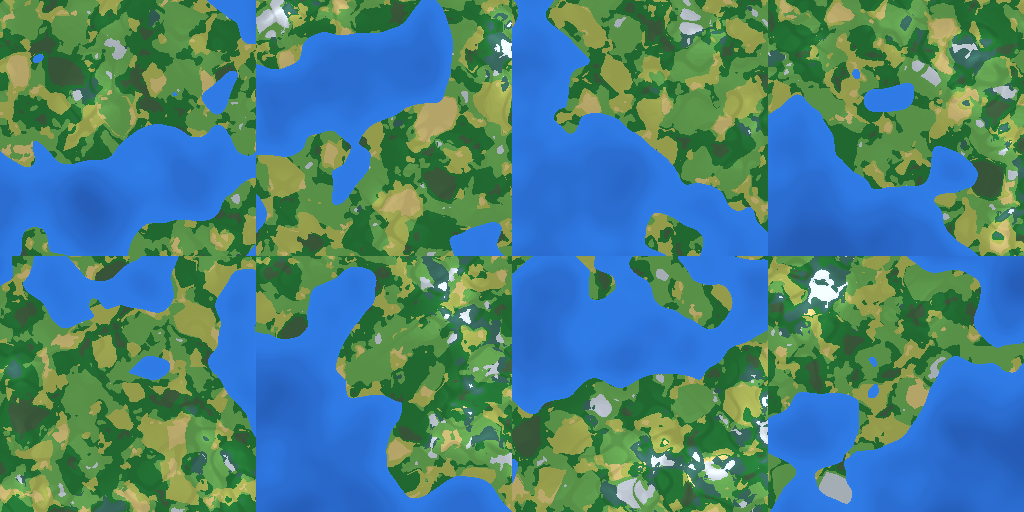
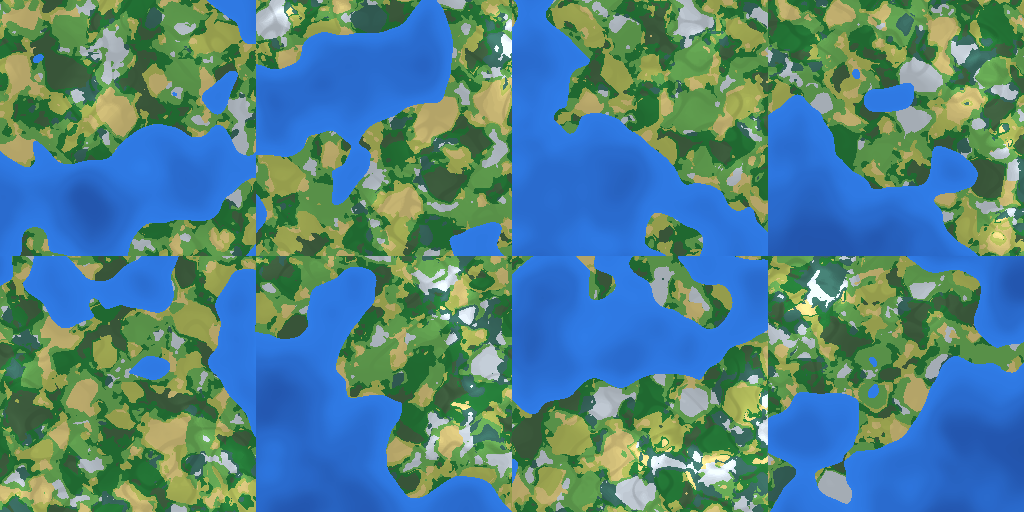
v0.25.0: tuning del clima (mas contraste) y de la costa (playas mas estrechas)

diff --git a/src/world/worldgen/mod.rs b/src/world/worldgen/mod.rs
@@ -182,15 +182,18 @@ fn derive(seed: u32, salt: u32) -> u32 {
 /// suave y controlable desde un solo sitio.
 fn continental_base(c: f32) -> f32 {
     // Cruza el 0 en `c = ocean_threshold` (0.0): ahi esta la linea de costa.
+    // Perfil `continentalness -> altura relativa al mar`. El tramo cerca de 0 se
+    // hace **empinado** para que la playa/plataforma sea estrecha (antes el
+    // gradiente suave dejaba costas muy anchas y planas).
     let points: [(f32, f32); 9] = [
-        (-1.00, -64.0),
-        (-0.60, -40.0),
-        (-0.30, -22.0),
-        (-0.10, -8.0),
+        (-1.00, -72.0),
+        (-0.55, -46.0),
+        (-0.28, -24.0),
+        (-0.10, -9.0),
         (0.00, 0.0),
-        (0.12, 10.0),
-        (0.45, 42.0),
-        (0.75, 86.0),
+        (0.05, 8.0),
+        (0.20, 24.0),
+        (0.60, 70.0),
         (1.00, 140.0),
     ];
     math::spline(&points, c)
@@ -400,8 +403,11 @@ impl WorldGen {
         let h_cell = self.climate_field(&self.humidity, ccx, ccz, cfg.humidity_scale);
         // En el interior de la celda domina el centro; cerca del borde, lo local.
         let blend = math::smoothstep(0.15, 0.55, cell.edge);
-        let temperature = math::lerp(t_local, t_cell, blend);
-        let humidity = math::lerp(h_local, h_cell, blend);
+        // Contraste climatico: empuja el clima hacia los extremos (mas biomas
+        // frios/calidos y secos/humedos; antes todo caia cerca de 0.5).
+        let contrast = |v: f32| math::saturate(0.5 + (v - 0.5) * cfg.climate_contrast);
+        let temperature = contrast(math::lerp(t_local, t_cell, blend));
+        let humidity = contrast(math::lerp(h_local, h_cell, blend));
 
         // --- Landforms (FASE 4): mesetas/terrazas/acantilados ---
         self.bump();
@@ -619,6 +625,23 @@ mod tests {
             max = max.max(s.coast_roll);
         }
         assert!(max - min > 0.3, "coast_roll poco variado: {min}..{max}");
+    }
+
+    #[test]
+    fn el_clima_llega_a_los_extremos() {
+        // Con el contraste climatico debe haber regiones claramente frias y
+        // calidas (si no, los biomas frios/calidos serian raros).
+        let g = WorldGen::new(13_371);
+        let (mut tmin, mut tmax) = (1.0f32, 0.0f32);
+        for x in (-3000..3000).step_by(101) {
+            for z in (-3000..3000).step_by(103) {
+                let t = g.sample(x as f64, z as f64).temperature;
+                tmin = tmin.min(t);
+                tmax = tmax.max(t);
+            }
+        }
+        assert!(tmin < 0.25, "no hay clima frio: {tmin}");
+        assert!(tmax > 0.75, "no hay clima calido: {tmax}");
     }
 
     #[test]

diff --git a/src/world/worldgen/config.rs b/src/world/worldgen/config.rs
@@ -11,7 +11,7 @@
 //! parametros".
 
 /// Version de la configuracion de worldgen.
-pub const WORLDGEN_CONFIG_VERSION: u32 = 2;
+pub const WORLDGEN_CONFIG_VERSION: u32 = 3;
 
 /// Parametros de la generacion de mundo. Valores iniciales a calibrar.
 #[derive(Clone, Copy, Debug, PartialEq)]
@@ -45,6 +45,10 @@ pub struct WorldGenConfig {
     pub altitude_lapse_start: f32,
     /// Altura (bloques) a la que la normalizacion de altitud llega a 1.
     pub altitude_top: f32,
+    /// Contraste del clima: > 1 empuja temperatura/humedad a los extremos
+    /// (mas desiertos, tundras y selvas; antes el clima quedaba casi todo en el
+    /// centro `0.5` y los biomas frios/calidos eran raros).
+    pub climate_contrast: f32,
 
     /// Frecuencia y amplitud del relieve macro (colinas grandes).
     pub macro_scale: f64,
@@ -120,6 +124,7 @@ impl Default for WorldGenConfig {
             altitude_lapse_rate: 0.16,
             altitude_lapse_start: 0.20,
             altitude_top: 180.0,
+            climate_contrast: 1.5,
 
             macro_scale: 0.0018,
             macro_amplitude: 26.0,
@@ -192,6 +197,7 @@ impl WorldGenConfig {
             ("plateau_step", self.plateau_step),
             ("terrace_step", self.terrace_step),
             ("cliff_step", self.cliff_step),
+            ("climate_contrast", self.climate_contrast),
         ] {
             if v <= 0.0 {
                 return Err(ConfigError::NotPositive(name));

diff --git a/examples/worldgen_preview.rs b/examples/worldgen_preview.rs
@@ -121,6 +121,7 @@ fn render_map(
 ) {
     let (mut n_ocean, mut n_land, mut n_deep) = (0u64, 0u64, 0u64);
     let mut n_river = 0u64;
+    let mut n_coast = 0u64;
     let mut heights: Vec<i32> = Vec::with_capacity(pixels * pixels);
     let mut cells: std::collections::HashSet<u64> = std::collections::HashSet::new();
     let mut biome_counts: HashMap<Biome, u64> = HashMap::new();
@@ -139,6 +140,9 @@ fn render_map(
                 _ => n_land += 1,
             }
             heights.push(h as i32);
+            if (h as i32 - SEA_LEVEL).abs() <= 3 {
+                n_coast += 1;
+            }
             if s.surface_water > s.base_height + 0.5 {
                 n_river += 1;
             }
@@ -212,10 +216,11 @@ fn render_map(
     let total = (pixels * pixels) as f64;
     heights.sort_unstable();
     println!(
-        "[preview] oceano {:.1}% (abisal {:.1}%) | tierra {:.1}% | agua superficial {:.1}%",
+        "[preview] oceano {:.1}% (abisal {:.1}%) | tierra {:.1}% | franja costa {:.1}% | agua superficial {:.1}%",
         100.0 * (n_ocean + n_deep) as f64 / total,
         100.0 * n_deep as f64 / total,
         100.0 * n_land as f64 / total,
+        100.0 * n_coast as f64 / total,
         100.0 * n_river as f64 / total
     );
     println!(

diff --git a/src/lib.rs b/src/lib.rs
@@ -10,7 +10,21 @@
 //! meshing de chunks, la iluminacion, el guardado versionado del mundo...) lo
 //! escribimos y documentamos nosotros.
 //!
-//! ## Estado actual: v0.24.0 - Worldgen FASE 9: tooling y calibracion
+//! ## Estado actual: v0.25.0 - Tuning del clima y la costa
+//!
+//! Pasada de calibracion del generador con las metricas de la FASE 9:
+//! * **Contraste climatico** (`climate_contrast`, config): empuja temperatura y
+//!   humedad a los extremos; antes el clima quedaba casi todo cerca de `0.5` y
+//!   los biomas frios/aridos eran raros (Tundra+Taiga < 2 %). Ahora hay regiones
+//!   claramente frias, calidas, secas y humedas.
+//! * **Perfil continental mas empinado** cerca de 0 (la costa): playas y
+//!   plataformas mas **estrechas** (antes el gradiente suave dejaba costas muy
+//!   anchas y planas).
+//!
+//! `GENERATOR_VERSION -> 16`. `WORLDGEN_CONFIG_VERSION -> 3`.
+//! `FORMAT_VERSION` intacto (5). Hereda de v0.24.0.
+//!
+//! ## v0.24.0 - Worldgen FASE 9: tooling y calibracion
 //!
 //! Herramientas offline para **equilibrar el generador con datos**:
 //! * `worldgen_preview` gana capas `landform` (colorea el perfil de cada region)

diff --git a/src/world/save.rs b/src/world/save.rs
@@ -78,7 +78,10 @@ pub const FORMAT_VERSION: u32 = 5;
 /// * v15: **tooling** (FASE 9) + calibracion de landforms: previews de cuevas
 ///   (slices), seed gallery y metricas; umbrales de landform ajustados para que
 ///   mesetas/terrazas/acantilados aparezcan con una proporcion util.
-pub const GENERATOR_VERSION: u32 = 15;
+/// * v16: **tuning del clima y la costa**: contraste climatico (mas biomas
+///   frios/aridos) y perfil continental mas empinado cerca de la costa (playas y
+///   plataformas mas estrechas).
+pub const GENERATOR_VERSION: u32 = 16;
 
 /// El "magic number" que identifica un archivo de mundo de Solaria.
 pub const MAGIC: [u8; 4] = *b"VFWD";

diff --git a/src/engine/window.rs b/src/engine/window.rs
@@ -14,7 +14,7 @@ pub const INITIAL_WIDTH: u32 = 1280;
 pub const INITIAL_HEIGHT: u32 = 720;
 
 /// Nombre que aparece en la barra de titulo.
-pub const TITLE: &str = "Solaria Voxel — v0.24.0";
+pub const TITLE: &str = "Solaria Voxel — v0.25.0";
 
 /// Devuelve los atributos con los que se creara la ventana.
 pub fn default_window_attributes() -> WindowAttributes {

diff --git a/README.md b/README.md
@@ -8,24 +8,27 @@ versionado del mundo y la generacion procedural.
 > Objetivo a largo plazo: un mundo de voxeles jugable que consuma **< 500 MB de
 > RAM**, construido en micro-versiones pequenas (cada una jugable y commiteada).
 
-## Estado actual: `v0.24.0` — Worldgen FASE 9: tooling y calibracion
+## Estado actual: `v0.25.0` — Tuning del clima y la costa
 
-Herramientas offline para equilibrar el generador **con datos**:
+Calibracion con las metricas de la FASE 9:
 
-- `worldgen_preview` gana la capa `landform` (colorea el perfil de cada region)
-  y **slices de cuevas**: `cave` (horizontal a `y=30`) y `cave_yz` (vertical).
-- Metricas nuevas: alturas p50/p95/p99, agua superficial % y aire subterraneo %.
-- `seed_gallery`: mosaico de mapas de bioma de 8 semillas en un PNG.
-- `TerrainGenerator::cave_carve_at`: consulta barata de cueva para previews.
-- Umbrales de landform **calibrados** (antes casi todo el mundo era `Rolling`).
+- **Contraste climatico** (`climate_contrast`): temperatura y humedad se empujan
+  a los extremos. Antes el clima quedaba casi todo cerca de `0.5` y los biomas
+  frios/aridos eran raros (Tundra+Taiga `~1.5 %`); ahora hay regiones frias,
+  calidas, secas y humedas.
+- **Costa mas estrecha**: el perfil `continentalness -> altura` es mas empinado
+  cerca de 0, asi que playas y plataformas son mas cortas (antes el gradiente
+  suave dejaba costas muy anchas y planas).
 
-`GENERATOR_VERSION → 15`. `FORMAT_VERSION` intacto (5).
+Reparto medido (2048x2048, seed 13371): Plains 30 % / Forest 24 % / Savanna 17 %
+/ Desert 11 % / Swamp 10 % / Tundra 6 % / Taiga 3 %.
 
-- **Landforms** (`v0.23.0`, FASE 4): perfiles de relieve por region — `Plateau`
-  (mesetas), `Terraced` (terrazas), `Cliffs` (acantilados), `Rolling`; via
-  `terrace(h, step, sharpness)`. `WORLDGEN_CONFIG_VERSION → 2`.
-- **Decoracion** (`v0.22.0`, FASE 7): reglas (`DecorationRule`), arboles con
-  claros (clusters) y rocas; rejilla de muestras con padding.
+`GENERATOR_VERSION → 16`. `WORLDGEN_CONFIG_VERSION → 3`. `FORMAT_VERSION = 5`.
+
+- **Tooling** (`v0.24.0`, FASE 9): slices de cuevas (`cave`, `cave_yz`), capa
+  `landform`, `seed_gallery` y metricas (p50/p95/p99, costa, aire subterraneo).
+- **Landforms** (`v0.23.0`, FASE 4): `Plateau`/`Terraced`/`Cliffs`/`Rolling`.
+- **Decoracion** (`v0.22.0`, FASE 7): reglas (`DecorationRule`), claros y rocas.
 - **Agua** (`v0.21.0`–`v0.21.1`): modelo de Minecraft (fuente→distancia),
   fuentes infinitas, caida; el agua **generada se asienta sola** al cargar la
   columna y el tick va a 10 Hz.
@@ -105,7 +108,7 @@ SOLARIA_RIVER=1 SOLARIA_VIEW_RADIUS=8 SOLARIA_DEMO=1 cargo run
 cargo test
 ```
 
-259 tests de unidad e integracion (determinismo, persistencia, meshing, luz,
+260 tests de unidad e integracion (determinismo, persistencia, meshing, luz,
 fluidos estilo Minecraft, raycast, worldgen y cuevas). Lint:
 
 ```bash

diff --git a/DECISIONS.md b/DECISIONS.md
@@ -2741,6 +2741,36 @@ dibujar etiquetas de seed en la galeria (requiere fuente bitmap).
 tests (nuevo: `cave_carve_at` determinista y encuentra cuevas); clippy limpio.
 Previews: `worldgen_preview_13371_{landform,cave,cave_yz}.png`, `seed_gallery.png`.
 
+## v0.25.0 — Tuning del clima y la costa
+
+### 2026-10-07 — Mas contraste climatico y costas mas estrechas
+
+**Decision.** Calibrar el generador con las metricas de la FASE 9:
+- **Contraste climatico** (`climate_contrast = 1.5`, config): `t' = 0.5 +
+  (t - 0.5) * contraste` sobre temperatura y humedad (tras la mezcla de celda,
+  antes del lapse).
+- **Perfil continental mas empinado** cerca de 0: la spline
+  `continentalness -> altura` sube de 0 a +8 en `[0, 0.05]` (antes +10 en
+  `[0, 0.12]`), y la plataforma cae mas rapido hacia el talud.
+
+**Motivo.** Dos problemas medidos: (1) el clima se concentraba cerca de `0.5`
+(el `Fbm` de 3 octavas da un rango estrecho), asi que Tundra+Taiga sumaban < 2 %
+y el resto era templado; (2) el gradiente continental es suave (frecuencia
+0.00045), asi que playas y plataformas ocupaban cientos de bloques.
+
+**Alternativas descartadas.** Ensanchar las bandas de los biomas frios (parche
+que no arregla el clima); subir la frecuencia continental global (encogeria los
+continentes); solo bajar los umbrales de bioma (menos natural).
+
+**Tradeoffs.** Cambia el mundo (`GENERATOR_VERSION -> 16`). El contraste es un
+parametro de config (`WORLDGEN_CONFIG_VERSION -> 3`); subirlo mas exagera desiertos
+y tundras. La p50 de altura sigue cerca del mar (hay mucho oceano/plataforma).
+
+**Consecuencia.** `worldgen/{config,mod}.rs`. 260 tests (nuevo: el clima llega a
+extremos < 0.25 y > 0.75); clippy limpio. Reparto de biomas (seed 13371) pasa de
+Plains 38 / Forest 33 / Savanna 18 / Desert 4 / Swamp 6 / Tundra 0.8 / Taiga 0.7
+a Plains 30 / Forest 24 / Savanna 17 / Desert 11 / Swamp 10 / Tundra 6 / Taiga 3.
+
 ```
 ### [fecha] vX.Y.Z — Titulo
 **Decision.** ...

diff --git a/docs/worldgen.md b/docs/worldgen.md
@@ -78,4 +78,5 @@ Escenas demo del motor: `SOLARIA_OCEAN`, `SOLARIA_BIOMES`, `SOLARIA_RIVER`,
 - `GENERATOR_VERSION` (resultado del mundo) y `FORMAT_VERSION` (binario) son
   **independientes**. Cambiar el mundo sube `GENERATOR_VERSION`; cambiar el
   guardado sube `FORMAT_VERSION` con migrador + test.
-- Actual: `GENERATOR_VERSION = 15`, `FORMAT_VERSION = 5`.
+- Actual: `GENERATOR_VERSION = 16`, `FORMAT_VERSION = 5`,
+  `WORLDGEN_CONFIG_VERSION = 3`.
